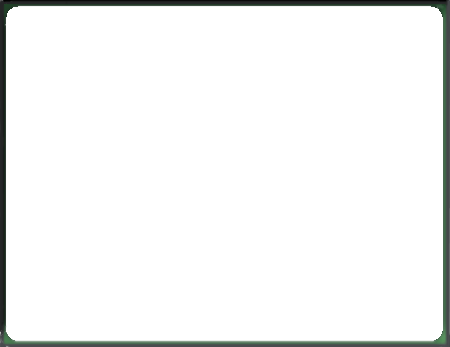
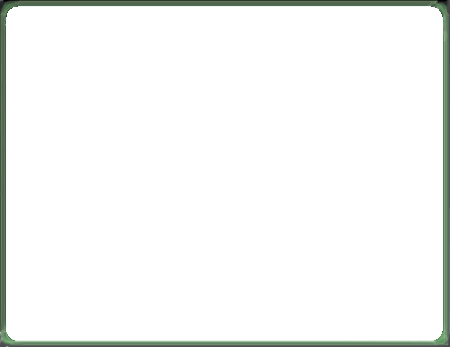
Fixes #2020 with 9-slice scaling.
This was a pain to figure out, because Unity
implements the 9-slice scaling style on GUI.Label
but not on GUI.DrawTexture which is what we were
using.  (Because it doesn't implement GUIStyle at
all for DrawTexture() (none of the overloaded methods
let you specify a style, and GUIStyle is where you
specify the offsets of your 9-slice for scaling).)

So I had to use GUI.Label instead.

But GUI.Label, when used to draw a Texture2D as
opposed to a string of text, refuses to scale the
Texture2D any larger than the original file size
it was loaded from.  (It will scale it smaller, but
not larger).

In the end the only thing that worked was to put
the entire image rendering work into the GUIStyle
itself, by making the image part of the style's
background, and then using that style to render
a "Label" consisting of a dummy empty string.

Oh, while I was at it, I also brightened up the highlight
of the terminal image a bit when it's active.  The
green glow in the frame wasn't severe enough to work
as a GUI element before.

Changed region(s): [[0.0, 0.0, 1.0, 1.0]]

diff --git a/src/kOS/Screen/TermWindow.cs b/src/kOS/Screen/TermWindow.cs
@@ -94,6 +94,10 @@ namespace kOS.Screen
         private Texture2D terminalImage;
         private Texture2D terminalFrameImage;
         private Texture2D terminalFrameActiveImage;
+        private GUIStyle terminalImageStyle;
+        private GUIStyle terminalFrameStyle;
+        private GUIStyle terminalFrameActiveStyle;
+
         private Texture2D resizeButtonImage;
         private Texture2D networkZigZagImage;
         private Texture2D brightnessButtonImage;
@@ -158,6 +162,10 @@ namespace kOS.Screen
             LoadTexture("GameData/kOS/GFX/brightness-button.png", ref brightnessButtonImage);
             LoadTexture("GameData/kOS/GFX/font-height-button.png", ref fontHeightButtonImage);
 
+            terminalImageStyle = Create9SliceStyle(terminalImage);
+            terminalFrameStyle = Create9SliceStyle(terminalFrameImage);
+            terminalFrameActiveStyle = Create9SliceStyle(terminalFrameActiveImage);
+
             LoadAudio();
             
             tinyToggleStyle = new GUIStyle(HighLogic.Skin.toggle)
@@ -175,6 +183,29 @@ namespace kOS.Screen
             GameEvents.onShowUI.Add (OnShowUI);
 
             soundMaker = gameObject.AddComponent<Sound.SoundMaker>();
+        }
+
+
+        /// <summary>
+        /// Unity lacks gui styles for GUI.DrawTexture(), so to make it do
+        /// 9-slice stretching, we have to draw the 9slice image as a GUI.Label.
+        /// But GUI.Labels that render a Texture2D instead of text, won't stretch\
+        /// larger than the size of the image file no matter what you do (only smaller).
+        /// So to make it stretch the image in a label, the image has to be implemented
+        /// as part of the label's background defined in the GUIStyle insteade of as a
+        /// normal image element.  This sets up that style, which you can then render
+        /// by making a GUILabel use this style and have dummy empty string content.
+        /// </summary>
+        /// <returns>The slice style.</returns>
+        /// <param name="fromTexture">From texture.</param>
+        private GUIStyle Create9SliceStyle(Texture2D fromTexture)
+        {
+            GUIStyle style = new GUIStyle();
+            style.normal.background = fromTexture;
+            style.border = new RectOffset(10, 10, 10, 10);
+            style.stretchWidth = true;
+            style.stretchHeight = true;
+            return style;
         }
 
         public void OnDestroy()
@@ -791,8 +822,8 @@ namespace kOS.Screen
             
             GUI.color = isLocked ? color : colorAlpha;
 
-            GUI.DrawTexture(new Rect(15, 20, WindowRect.width-30, WindowRect.height-55), terminalImage);
-
+            // eraseme GUI.DrawTexture(new Rect(15, 20, WindowRect.width-30, WindowRect.height-55), terminalImage);
+            GUI.Label(new Rect(15, 20, WindowRect.width-30, WindowRect.height-55), "", terminalImageStyle);
             if (telnets.Count > 0)
                 DrawTelnetStatus();
 
@@ -919,9 +950,11 @@ namespace kOS.Screen
             // Draw the rounded corner frame atop the chars field, so it covers the sqaure corners of the character zone
             // if they bleed over a bit.  Also, change which variant is used depending on focus:
             if (isLocked)
-                GUI.DrawTexture(new Rect(15, 20, WindowRect.width-30, WindowRect.height-55), terminalFrameActiveImage);            
+                // eraseme: GUI.DrawTexture(new Rect(15, 20, WindowRect.width-30, WindowRect.height-55), terminalFrameActiveImage);
+                GUI.Label(new Rect(15, 20, WindowRect.width-30, WindowRect.height-55), "", terminalFrameActiveStyle);
             else
-                GUI.DrawTexture(new Rect(15, 20, WindowRect.width-30, WindowRect.height-55), terminalFrameImage);            
+                // eraseme: GUI.DrawTexture(new Rect(15, 20, WindowRect.width-30, WindowRect.height-55), terminalFrameImage);
+                GUI.Label(new Rect(15, 20, WindowRect.width-30, WindowRect.height-55), "", terminalFrameStyle);
 
             GUI.Label(new Rect(WindowRect.width/2-40, WindowRect.height-12,100,10), screen.ColumnCount+"x"+screen.RowCount, customSkin.label);
 
